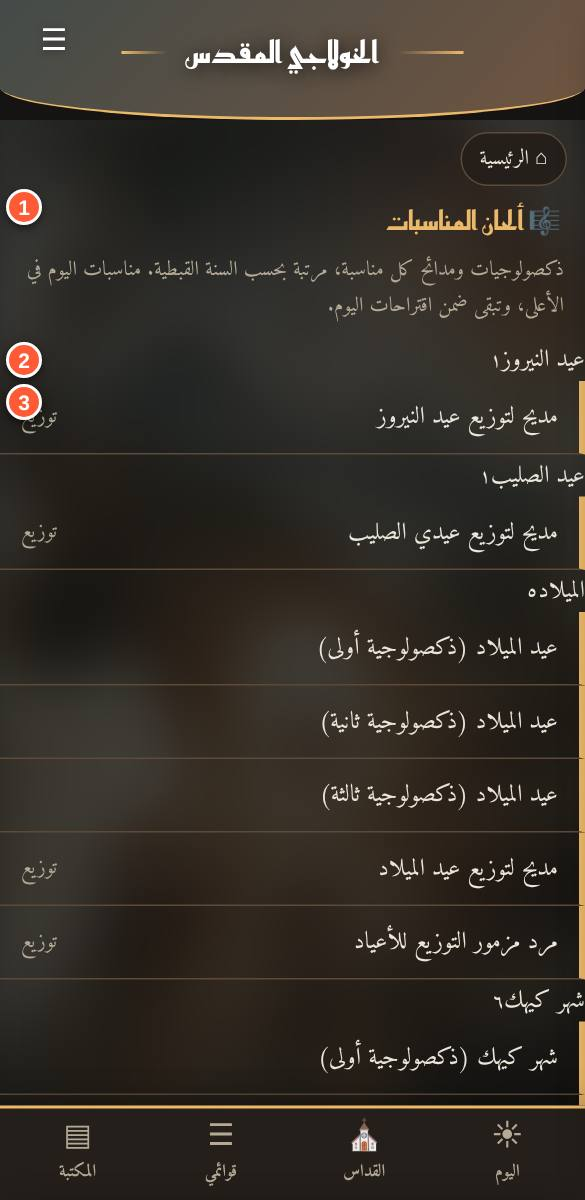
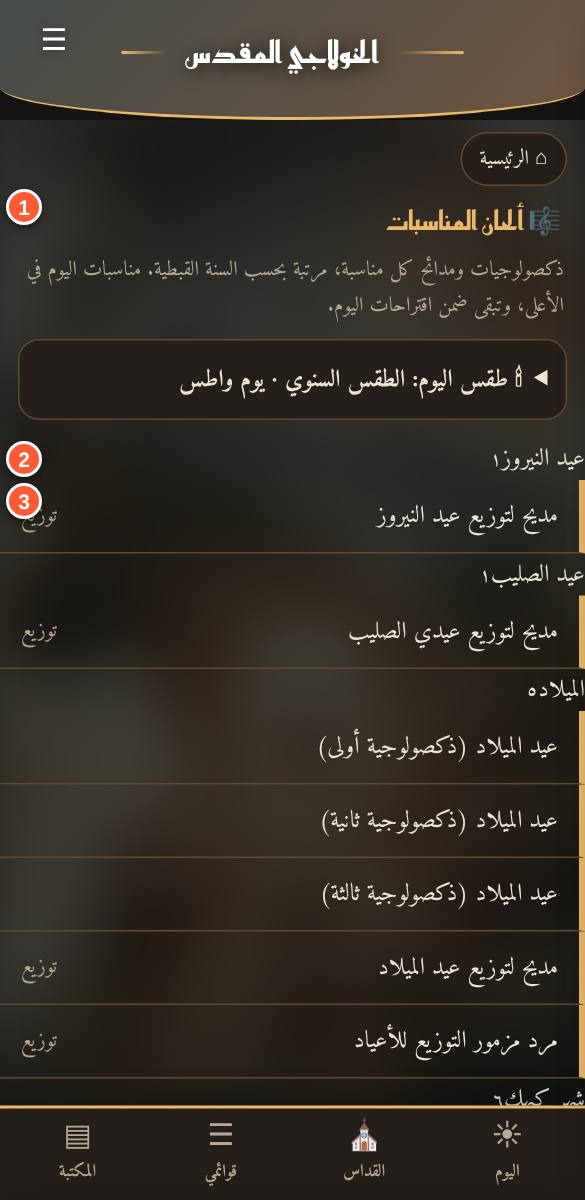
بطاقة طقس اليوم (آدام/واطس، الطقس، الليلويا والأواشي) من ملاحظات أسامة لطفي
Claude-Session: https://claude.ai/code/session_01TxsQH8W41ZBNhnMhe9bVaK

diff --git a/index.html b/index.html
@@ -555,6 +555,7 @@ html{scroll-padding-top:var(--tbh,0px)}
 #dxfab.on{background:var(--g1,var(--acc));color:var(--on-g1,#fff)}
 .dxtabs{display:flex;flex-wrap:wrap;gap:6px;margin:0 12px 10px}.dxtabs button{padding:8px 14px;border-radius:999px;border:1.5px solid var(--lk,var(--acc));color:var(--lk,var(--acc));font-weight:700}.dxtabs button.on{background:var(--g1,var(--acc));border-color:var(--g1,var(--acc));color:var(--on-g1,#fff)}.dxtabs small{opacity:.8}
 .dxtd{margin:0 12px 12px;padding:10px 0 4px;border:1.5px dashed var(--line);border-radius:14px;background:var(--card)}.dxtd>b{display:block;padding:0 12px 6px}.dxtd .dxall{display:block;margin:8px 12px;padding:10px;width:calc(100% - 24px);border-radius:12px;border:1.5px solid var(--lk,var(--acc));color:var(--lk,var(--acc));font-weight:700}
+.rtc{margin:0 12px 12px;border:1.5px solid var(--line);border-radius:14px;background:var(--card)}.rtc>summary{padding:12px;font-weight:700;cursor:pointer}.rtb{padding:0 14px 12px}.rtb ul{margin:4px 0 8px;padding-inline-start:20px}.rtb small{display:block;opacity:.75}
 .dxpre{margin:0 12px 12px;border:1.5px solid var(--line);border-radius:14px;background:var(--card)}.dxpre>summary{padding:12px;font-weight:700;cursor:pointer}
 .dxtd .dxsn{display:block;padding:0 14px 6px;color:var(--mute);font-size:.8rem}
 .dxi .go small{display:block;font-weight:400;font-size:0.72rem;color:var(--mute)}
@@ -1284,7 +1285,7 @@ function dxView(){
   var t=dxToday();
   if(t.cd&&t.dx.length){var miss=t.dx.filter(function(x){return c.items.indexOf(x.id)<0}).length;
     h+='<div class="dxtd"><b>🗓 اقتراحات اليوم — '+ar9(t.cd.d)+' '+esc(CMN[t.cd.m])+'</b>'+(t.season?'<small class="dxsn">'+esc(t.season)+'</small>':'')+t.dx.map(function(x){return '<div class="dxi"><button class="go" data-nav="#/s/'+x.id+'">'+esc(x.title)+'</button>'+dxBtn(x.id)+'</div>'}).join("")+(miss?'<button class="dxall" data-dxaddtoday="1">أضف الكل إلى «'+esc(shortN(c.name,16))+'»</button>':'')+'</div>'}
-  var pr=dxPresets();
+  h+=riteCard();var pr=dxPresets();
   if(pr.length)h+='<details class="dxpre"'+(a.length?'':' open')+'><summary>⚡ قوائم جاهزة للاستخدام الفوري ('+ar9(pr.length)+')</summary><p class="hint" style="margin:6px 14px">تتغير ترتيبا حسب تاريخ اليوم. اضغط أي قائمة لتُضاف إلى قوائمك، ثم ابدأ القراءة منها فورا أو عدّل ترتيبها وأضف إليها.</p>'+pr.map(function(x){return '<div class="dxi"><button class="go" data-dxpre="'+x.k+'">'+(x.t?'🗓 ':'')+esc(x.n)+'<small>'+ar9(x.ids.length)+' قسمًا'+(x.t?' · اليوم':'')+'</small></button><button class="mv" data-dxpre="'+x.k+'">＋ قائمة</button></div>'}).join("")+'</details>';
   if(!a.length){h+='<div class="empty"><b>القائمة فارغة</b>اضغط ＋ بجوار أي ذكصولوجية أو أي قسم لإضافته هنا، ورتّبه بالترتيب الذي تريده. يمكنك أيضًا الإضافة أثناء القراءة من الزر العائم.</div>'}
   else{h+='<div class="dxbar"><button class="pri" data-dxgo="'+a[0]+'">▶ ابدأ القراءة</button><button data-dxclear="1">تفريغ القائمة</button></div><p class="hint" style="margin:0 14px 10px">عند القراءة من هنا، «التالي» و«السابق» والسحب ينقلونك بين أقسام القائمة بترتيبها.</p><div class="dxl">';
@@ -1293,11 +1294,14 @@ function dxView(){
   h+='<div class="dxbar"><button data-ks="export">💾 نسخة احتياطية للقوائم والإعدادات</button></div>'+bnav('');app.innerHTML=h;window.scrollTo(0,0)}
 var CMN=["توت","بابة","هاتور","كيهك","طوبة","أمشير","برمهات","برمودة","بشنس","بؤونة","أبيب","مسرى","النسيء"];
 var OCCL=[["nayrouz","عيد النيروز"],["cross","عيد الصليب"],["nativity","الميلاد"],["kiahk","شهر كيهك"],["kiahk-sun1","أحد كيهك الأول"],["kiahk-sun2","أحد كيهك الثاني"],["kiahk-sun3","أحد كيهك الثالث"],["kiahk-sun4","أحد كيهك الرابع"],["epiphany","الغطاس"],["nineveh","صوم نينوى"],["lent","الصوم الكبير"],["lazarus","سبت لعازر"],["palm","أحد الشعانين"],["holyweek","أسبوع الآلام"],["joysat","سبت الفرح"],["resurrection","القيامة"],["pascha","الخمسين المقدسة"],["thomas","أحد توما"],["pascha-sun2","الأحد الثاني من الخمسين"],["pascha-sun3","الأحد الثالث من الخمسين"],["pascha-sun4","الأحد الرابع من الخمسين"],["pascha-sun5","الأحد الخامس من الخمسين"],["pascha-sun6","الأحد السادس من الخمسين"],["ascension","الصعود"],["pentecost","العنصرة"],["apostlesfast","صوم الرسل"],["apostles","عيد الرسل"],["annunciation","البشارة"],["virgin","السيدة العذراء"],["michael","رئيس الملائكة ميخائيل"]];
+function riteCard(){
+  var r=null;try{r=window.KCAL&&KCAL.rite?KCAL.rite(new Date()):null}catch(e){}if(!r)return "";
+  return '<details class="rtc"><summary>🕯 طقس اليوم: '+esc(r.rite)+' · يوم '+esc(r.tune)+'</summary><div class="rtb"><p>الأيام الآدام: الأحد والاثنين والثلاثاء. الأيام الواطس: الأربعاء والخميس والجمعة والسبت. اليوم من أيام <b>'+esc(r.tune)+'</b> ('+esc(r.tuneDays)+').</p><b>ألحان تُقال اليوم</b><ul>'+r.hymns.map(function(x){return '<li>'+esc(x)+'</li>'}).join("")+'</ul>'+(r.notes.length?'<b>أواشي</b><ul>'+r.notes.map(function(x){return '<li>'+esc(x)+'</li>'}).join("")+'</ul>':'')+'<small>المصدر: «ملاحظات طقسية» — كتاب ألحان الدياكون أسامة لطفي (ص ٢–٩). مسوّدة تحتاج مراجعة؛ لا تحل محل توجيه الكاهن.</small></div></details>'}
 function occView(){
   ctl(false);document.title="ألحان المناسبات — الخولاجي";
   var now=null;try{now=window.KCAL?KCAL.occasions(new Date()):null}catch(e){}
   var tk=now?now.keys:[];
-  var h='<div class="crumb"><button data-nav="#/">⌂ الرئيسية</button></div><div class="gh"><h2>🎼 ألحان المناسبات</h2></div><p class="hint" style="margin:0 14px 10px">ذكصولوجيات ومدائح كل مناسبة، مرتبة بحسب السنة القبطية. مناسبات اليوم في الأعلى، وتبقى ضمن اقتراحات اليوم.</p>';
+  var h='<div class="crumb"><button data-nav="#/">⌂ الرئيسية</button></div><div class="gh"><h2>🎼 ألحان المناسبات</h2></div><p class="hint" style="margin:0 14px 10px">ذكصولوجيات ومدائح كل مناسبة، مرتبة بحسب السنة القبطية. مناسبات اليوم في الأعلى، وتبقى ضمن اقتراحات اليوم.</p>'+riteCard();
   var rows=OCCL.map(function(o){var list=[];D.groups.forEach(function(g){if(g.id!=="dox"&&g.id!=="tawzi")return;g.sections.forEach(function(x){if(x.occ&&x.occ.split(" ").indexOf(o[0])>=0)list.push({x:x,g:g.id})})});return {k:o[0],n:o[1],l:list,t:tk.indexOf(o[0])>=0}}).filter(function(r){return r.l.length});
   rows.sort(function(a,b){return (b.t?1:0)-(a.t?1:0)});
   rows.forEach(function(r){h+='<div class="h2"><span>'+esc(r.n)+(r.t?' · اليوم':'')+'</span><small>'+ar9(r.l.length)+'</small></div>'+r.l.map(function(i){return '<button class="sec" data-nav="#/s/'+i.x.id+'"><span>'+esc(i.x.title)+'</span><span class="pn">'+(i.g==='tawzi'?'توزيع':'')+'</span></button>'}).join("")});

diff --git a/calendar.js b/calendar.js
@@ -154,5 +154,51 @@ function occasions(dt){
   if(rel>=7&&rel<=42&&rel%7===0)add('pascha-sun'+(rel/7),'الأحد '+['','الأول','الثاني','الثالث','الرابع','الخامس','السادس'][rel/7]+' من الخمسين');
   return {keys:o,names:names,info:i,label:labelOf(dt)};
 }
-window.KCAL={coptic:coptic,easter:easter,seasons:seasons,dayInfo:dayInfo,label:labelOf,occasions:occasions,CM:CM,GM:GM,ard:ard,fixed:FIXED};
+
+/* طقس اليوم وألحانه — مبني على «ملاحظات طقسية» في كتاب الألحان للدياكون أسامة لطفي (ص ٢–٩).
+   الأيام الآدام: الأحد والاثنين والثلاثاء. الأيام الواطس: الأربعاء والخميس والجمعة والسبت. */
+function rite(dt){
+  var i=dayInfo(dt),c=i.c,y=dt.getFullYear(),rel=dnum(dt)-dnum(easter(y)),wd=dt.getDay(),
+      has=function(k){return i.seasons.some(function(z){return z.k===k})},
+      pasc=rel>=0&&rel<=49,holyw=rel>=-6&&rel<=-1,palm=rel===-7,lent=rel>=-55&&rel<=-8,jonah=has('jonah'),
+      cross=(c.m===1&&c.d===17)||(c.m===7&&c.d===10),
+      lordFeast=[[4,29],[5,6],[5,11],[5,13],[6,8],[7,29],[9,24],[12,13]].some(function(f){return f[0]===c.m&&f[1]===c.d}),
+      m29=c.d===29&&c.m!==5&&c.m!==6,
+      fastN=has('adv')||has('apostles')||has('virgin'),sat=wd===6,sun=wd===0,
+      joy=(c.m===1&&(c.d<=16))||(c.m===4&&c.d>=29)||(c.m===5&&(c.d<=6||(c.d>=11&&c.d<=13)))||pasc||lordFeast||m29,
+      r;
+  if(holyw)r='الطقس الحزايني';
+  else if(palm||cross)r='الطقس الشعانيني';
+  else if(joy)r='الطقس الفرايحي';
+  else if(lent||jonah)r='الطقس الصيامي';
+  else if(c.m===4)r='الطقس الكيهكي';
+  else r='الطقس السنوي';
+  var thu=rel===-3,jsat=rel===-1;
+  var tune=(wd<=2)?'آدام':'واطس';
+  var h=[];
+  /* الليلويا وطاي شوري */
+  if(!thu&&!jsat){
+    var f1=joy||(rel===-8)||(fastN&&(sat||sun))||cross||(c.m===1&&c.d<17);
+    if(f1)h.push('ليلويا فاي بيه بي','طاي شوري');
+    else if((lent||jonah)&&!sat&&!sun)h.push('ليلويا إي إيه إيخون','إنثو تيه تي شوري');
+    else if((!fastN&&!lent&&!jonah&&(wd===3||wd===5))||(fastN&&!sat&&!sun)||((lent||palm)&&(sat||sun)))h.push('ليلويا چيه إفميه في','تي شوري');
+  }
+  /* چيه آف ... */
+  var nx=dayInfo(new Date(dt.getTime()+7*864e5)).c;
+  var nm=null;
+  if((c.m===4&&c.d>=28)||(c.m===5&&c.d<=6))nm='چيه آف ماسك';
+  else if(c.m===5&&c.d>=10&&c.d<=12)nm='چيه آكتشي أومس';
+  else if(cross||holyw)nm='چيه آف آشك';
+  else if(pasc||(sun&&!palm&&((rel>=50&&c.m>=9)||c.m<=2||(c.m===3&&nx.m===4)))||(m29&&c.m!==5&&c.m!==6))nm='چيه آك طونك';
+  else nm='چيه آك إي';
+  h.push(nm);
+  var n=[];
+  if(sun||joy||lordFeast)n.push('أوشية القرابين تُصلَّى');
+  if(!sat&&!sun&&!lordFeast&&!pasc)n.push('أوشية المسافرين في باكر');
+  if(!sat||pasc||lordFeast)n.push('أوشية المرضى في باكر'+(pasc?' وعشيات الخمسين':''));
+  if(!pasc)n.push('أوشية الراقدين في العشيات'+(sat?' وباكر السبت':''));
+  return {rite:r,tune:tune,tuneDays:tune==='آدام'?'الأحد والاثنين والثلاثاء':'الأربعاء والخميس والجمعة والسبت',hymns:h,notes:n};
+}
+
+window.KCAL={rite:rite,coptic:coptic,easter:easter,seasons:seasons,dayInfo:dayInfo,label:labelOf,occasions:occasions,CM:CM,GM:GM,ard:ard,fixed:FIXED};
 })();

diff --git a/tools/make-guide.js b/tools/make-guide.js
@@ -29,7 +29,7 @@ const SPECS=[
  marks:[['.jin','ما هذه الخريطة؟','شرح قصير للفكرة.'],['.jt.hr','أنت هنا','المحطة التي تقابل ما تقرؤه الآن.'],['.jt:nth-of-type(1) .jm','يقابل في القداس','الجزء من القداس الذي يقابل هذه المحطة.']],
  nav:'في أعلى القراءة: اضغط الصف لتصغير الشريط لدوائر المحطات فقط، وبنفس الضغطة يكبر.'},
 {id:'lists',title:'قوائمي',hash:'#/dxlist',summary:'تجمّع قبل القداس الأقسام التي ستصليها، بالترتيب الذي تريده، وتقرؤها بعدها متتالية.',
- marks:[['.dxtabs','القوائم','لكل قائمة اسم (مثلا قداس الأحد). اضغط لتبديلها، أو «＋ قائمة جديدة».'],['[data-dxren]','تسمية · نسخ · حذف','إدارة القائمة الحالية.'],['.dxpre','قوائم جاهزة','قوائم مرتبة لكل مناسبة ولأي أحد؛ اضغط واحدة لتُنسخ إلى قوائمك.'],['.dxtd','اقتراحات اليوم','ذكصولوجيات تناسب اليوم. ＋ لإضافتها، أو «أضف الكل».'],['.dxbar .pri','ابدأ القراءة','يقرأ من أول قسم ويتنقل بترتيب القائمة.'],['.dxi .n','الترتيب','رقم القسم في القائمة.'],['.dxi .mv','▲ ▼ ✕','تحريك القسم لأعلى أو لأسفل أو حذفه.']]},
+ marks:[['.dxtabs','القوائم','لكل قائمة اسم (مثلا قداس الأحد). اضغط لتبديلها، أو «＋ قائمة جديدة».'],['[data-dxren]','تسمية · نسخ · حذف','إدارة القائمة الحالية.'],['.rtc','طقس اليوم','الطقس ويوم آدام/واطس وألحان اليوم وأواشيه؛ اضغط لفتح التفاصيل.'],['.dxpre','قوائم جاهزة','قوائم مرتبة لكل مناسبة ولأي أحد؛ اضغط واحدة لتُنسخ إلى قوائمك.'],['.dxtd','اقتراحات اليوم','ذكصولوجيات تناسب اليوم. ＋ لإضافتها، أو «أضف الكل».'],['.dxbar .pri','ابدأ القراءة','يقرأ من أول قسم ويتنقل بترتيب القائمة.'],['.dxi .n','الترتيب','رقم القسم في القائمة.'],['.dxi .mv','▲ ▼ ✕','تحريك القسم لأعلى أو لأسفل أو حذفه.']]},
 {id:'library',title:'المكتبة',hash:'#/lib',h:1000,summary:'كل محتوى الكتاب في مكان واحد.',
  marks:[['.search.lib','بحث','اضغط وابحث بالعربي أو القبطي.'],['.grid .g','أقسام الكتاب','رفع البخور، القداسات، القسمة، الذكصولوجيات، دليل الطقس وغيرها.'],['.chips','أدوات','الفهرس الكامل، تأملاتي (وما كتبته أنت)، ودراسة (مقارنة القداسات وقاموس القبطي).']]},
 {id:'occasions',title:'ألحان المناسبات',hash:'#/g/occ',summary:'ذكصولوجيات ومدائح كل مناسبة في مكان واحد، وتبقى ضمن اقتراحات اليوم.',

diff --git a/guide-news.js b/guide-news.js
@@ -1,6 +1,7 @@
 /* سجل الميزات الجديدة (الأحدث أولا). كل ميزة جديدة تُضاف هنا كمدخل جديد في أعلى القائمة،
    ثم تُحدَّث مواصفة الصفحة المتأثرة في tools/make-guide.js وتُعاد اللقطات (node tools/make-guide.js). */
 window.KG_NEWS=[
+{v:"r164",t:"طقس اليوم: الآدام والواطس والألحان",x:"بطاقة «طقس اليوم» في «قوائمي» وفي «ألحان المناسبات» تحسب من التاريخ: الطقس (فرايحي، كيهكي، صيامي، حزايني، شعانيني، سنوي)، ويوم آدام (الأحد–الثلاثاء) أو واطس (الأربعاء–السبت)، وأي ليلويا وطاي شوري وچيه تُقال، وأواشي القرابين والمرضى والمسافرين والراقدين، مأخوذة من «ملاحظات طقسية» في كتاب أسامة لطفي. مسوّدة تحتاج مراجعة."},
 {v:"r163",t:"قوائم جاهزة واقتراحات تتغير مع اليوم",x:"في «قوائمي» قسم جديد «قوائم جاهزة» لكل مناسبة (الميلاد، الشعانين، القيامة، صوم الرسل…) ولأي أحد عادي، ومناسبة اليوم أولا؛ اضغط أي قائمة لتنسخها إلى قوائمك وتعدّلها. ويوم الأحد تُضاف مدائح التوزيع السنوية إلى اقتراحات اليوم. يمكنك دائما بناء قوائمك بنفسك."},
 {v:"r162",t:"قسم ألحان المناسبات",x:"قسم جديد في الرئيسية يجمع ذكصولوجيات ومدائح كل مناسبة (الميلاد، الغطاس، الشعانين، القيامة، صوم الرسل…) مرتبة بحسب السنة القبطية، ومناسبات اليوم في الأعلى. وتبقى ضمن اقتراحات اليوم كما هي."},
 {v:"r161",t:"مديح سبت الفرح",x:"أُضيف مديح عربي على إبصالية سبت الفرح (١٨ بيتا، يُقال بعده «آجيوس») إلى «ألحان التوزيع»، ويظهر في اليوم نفسه. مسوّدة تحتاج مراجعة."},

diff --git a/sw.js b/sw.js
@@ -1,4 +1,4 @@
-const CACHE_NAME='khulagi-v1.5-shell-r163';
+const CACHE_NAME='khulagi-v1.5-shell-r164';
 const FILES=['./','index.html','icon-192.png','icon-512.png','guide-news.js','calendar.js','content-tawzi.txt','guide-pages.js','guide/doxologies.jpg','guide/occasions.jpg','guide/library.jpg','guide/lists.jpg','guide/lit.jpg','guide/notes.jpg','guide/post.jpg','guide/pre.jpg','guide/reader.jpg','guide/settings.jpg','guide/sidx.jpg','guide/splash.jpg','guide/story.jpg','guide/today.jpg','reemkufi-arabic-700-normal.woff2','dawn.jpg','data.js','study.js','swipe.js','live.js','story.js','study-data.js','data-bible.js','content-raf.txt','content-bas.txt','content-greg.txt','content-cyr.txt','content-qisam.txt','content-misc.txt','content-bless.txt','content-app.txt','content-taqs.txt','content-dox.txt','manifest.webmanifest','amiri-arabic-400-normal.woff2','amiri-arabic-700-normal.woff2','amiri-latin-400-normal.woff2','tajawal-arabic-400.woff2','tajawal-latin-400.woff2','tajawal-arabic-700.woff2','tajawal-latin-700.woff2','cairo-arabic-400-normal.woff2','cairo-arabic-700-normal.woff2','el-messiri-arabic-400-normal.woff2','el-messiri-arabic-700-normal.woff2','lateef-arabic-400-normal.woff2','lateef-arabic-700-normal.woff2','markazi-text-arabic-400-normal.woff2','markazi-text-arabic-700-normal.woff2','noto-naskh-arabic-arabic-400-normal.woff2','noto-naskh-arabic-arabic-700-normal.woff2','reem-kufi-arabic-400-normal.woff2','reem-kufi-arabic-700-normal.woff2','scheherazade-new-arabic-400-normal.woff2','scheherazade-new-arabic-700-normal.woff2','amiri-latin-700-normal.woff2','noto-sans-coptic-coptic-400-normal.woff2','noto-sans-coptic-latin-400-normal.woff2'];
 self.addEventListener('install',e=>{e.waitUntil(caches.open(CACHE_NAME).then(c=>Promise.all(FILES.map(f=>c.add(new Request(f,{cache:'reload'})).catch(()=>{})))).then(()=>self.skipWaiting()))});
 self.addEventListener('activate',e=>{e.waitUntil(caches.keys().then(k=>Promise.all(k.filter(x=>x!==CACHE_NAME).map(x=>caches.delete(x)))).then(()=>self.clients.claim()))});

diff --git a/guide-pages.js b/guide-pages.js
@@ -261,23 +261,23 @@ window.KG_PAGES=[
    ],
    [
     3,
+    "طقس اليوم",
+    "الطقس ويوم آدام/واطس وألحان اليوم وأواشيه؛ اضغط لفتح التفاصيل."
+   ],
+   [
+    4,
     "قوائم جاهزة",
     "قوائم مرتبة لكل مناسبة ولأي أحد؛ اضغط واحدة لتُنسخ إلى قوائمك."
    ],
    [
-    4,
+    5,
     "اقتراحات اليوم",
     "ذكصولوجيات تناسب اليوم. ＋ لإضافتها، أو «أضف الكل»."
    ],
    [
-    5,
+    6,
     "ابدأ القراءة",
     "يقرأ من أول قسم ويتنقل بترتيب القائمة."
-   ],
-   [
-    6,
-    "الترتيب",
-    "رقم القسم في القائمة."
    ],
    [
     7,
